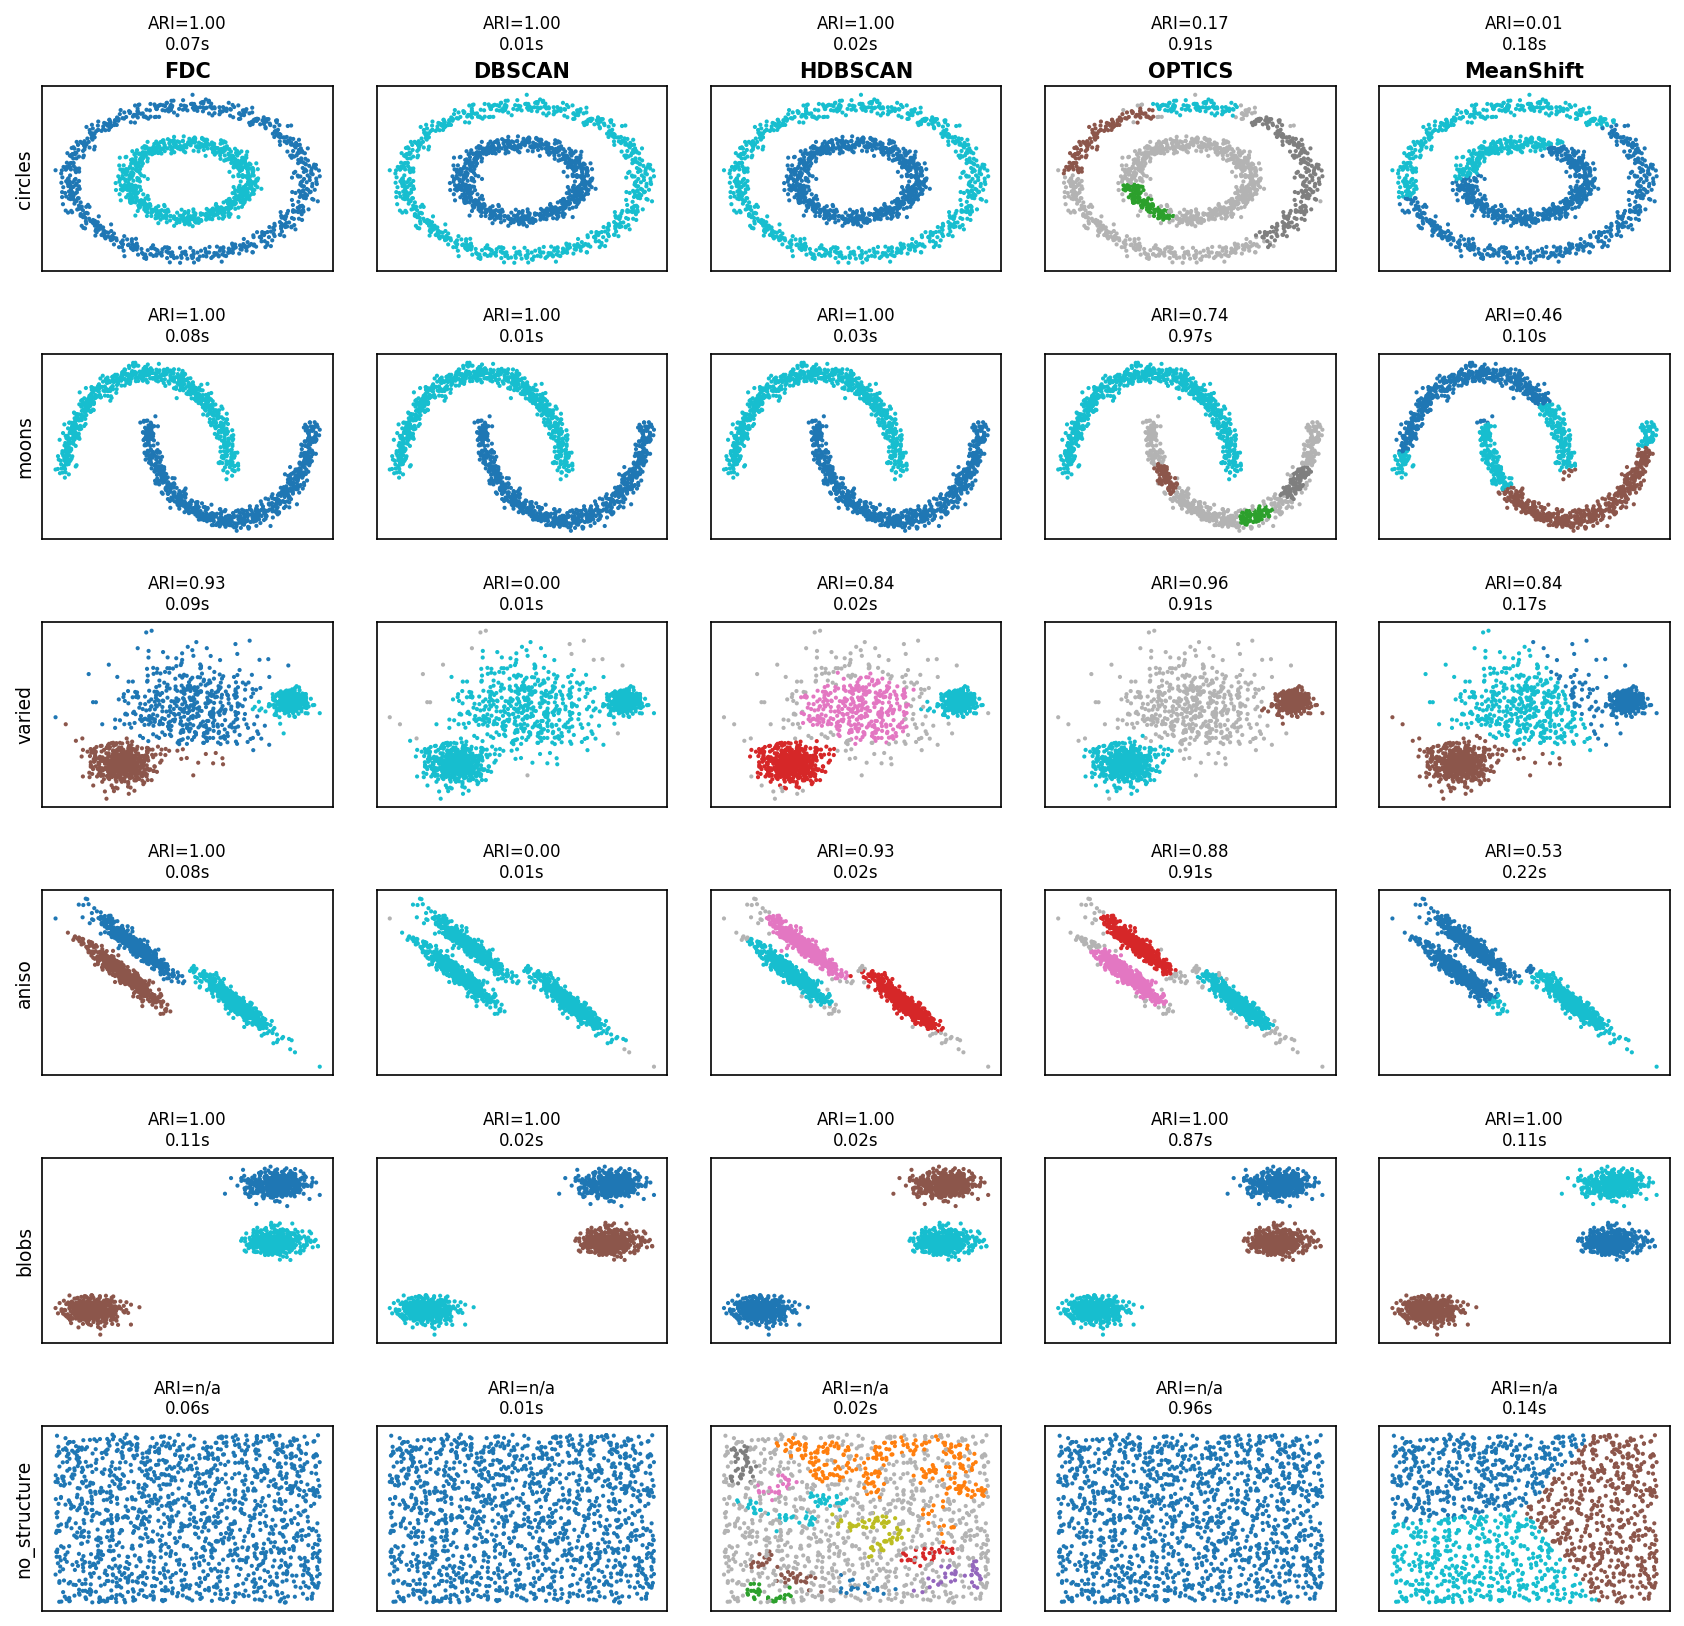
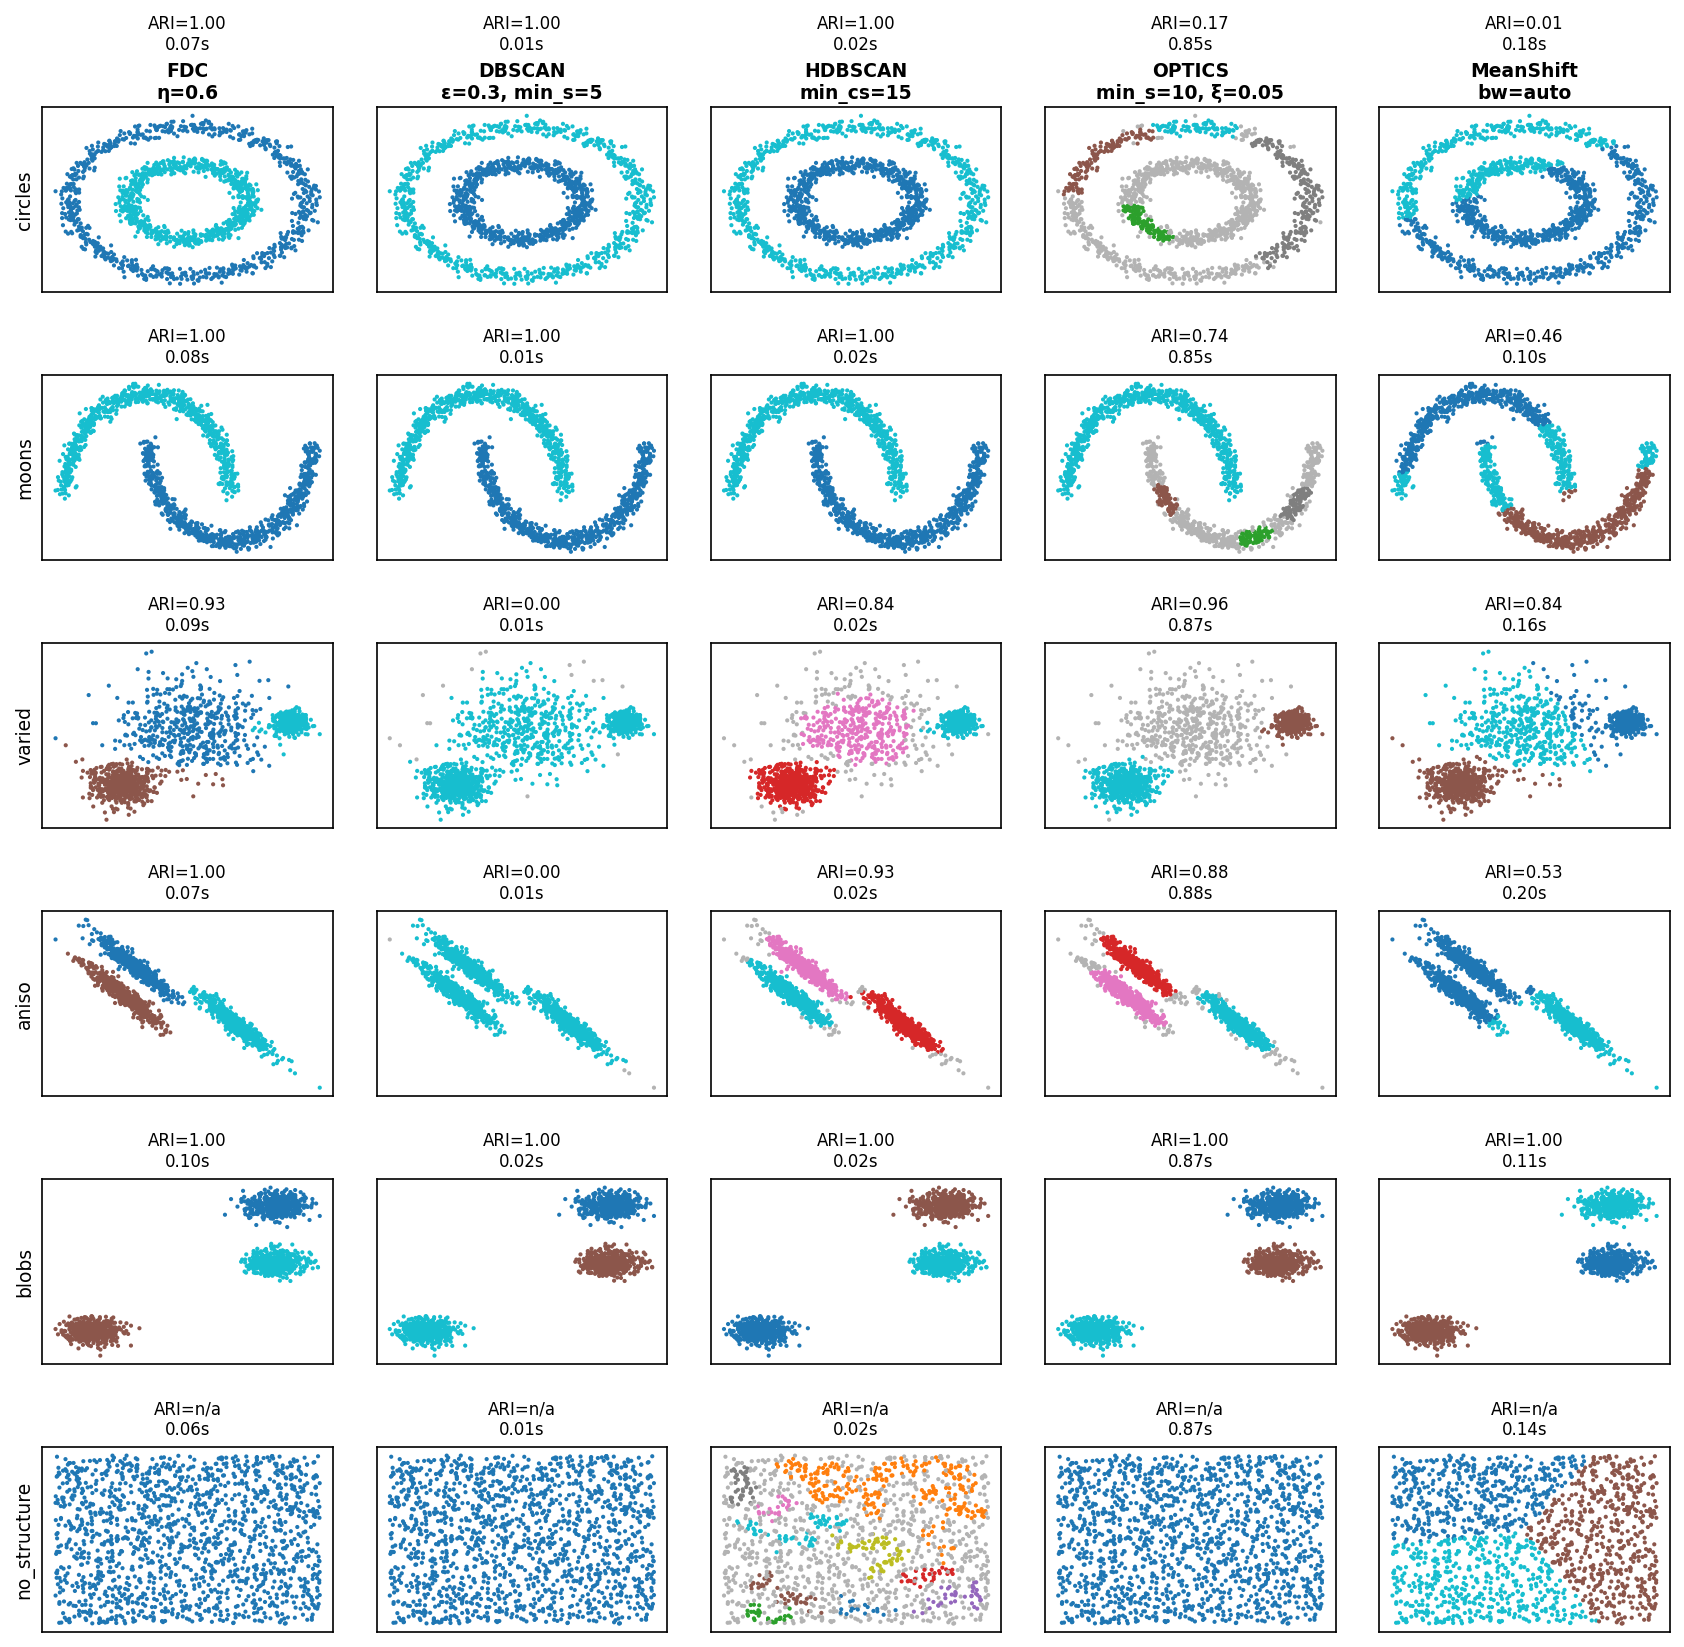
show key hyperparameters in benchmark figure column headers

diff --git a/example/benchmark_sklearn.py b/example/benchmark_sklearn.py
@@ -59,6 +59,13 @@ def make_algorithms(X):
 # Run benchmark
 # ---------------------------------------------------------------------------
 algo_names = ["FDC", "DBSCAN", "HDBSCAN", "OPTICS", "MeanShift"]
+algo_param_labels = {
+    "FDC":       "η=0.6",
+    "DBSCAN":    "ε=0.3, min_s=5",
+    "HDBSCAN":   "min_cs=15",
+    "OPTICS":    "min_s=10, ξ=0.05",
+    "MeanShift": "bw=auto",
+}
 
 # results[dataset][algo] = (ari, runtime)
 # pred_labels[dataset][algo] = predicted labels (reused for plotting)
@@ -160,7 +167,8 @@ for row, (ds_name, (X_raw, y_true)) in enumerate(zip(dataset_names, dataset_list
         ax.set_title(f"{ari_str}\n{dt:.2f}s", fontsize=8)
 
         if row == 0:
-            ax.set_xlabel(algo_name, fontsize=10, fontweight="bold")
+            param_str = algo_param_labels[algo_name]
+            ax.set_xlabel(f"{algo_name}\n{param_str}", fontsize=9, fontweight="bold")
             ax.xaxis.set_label_position("top")
         if col == 0:
             ax.set_ylabel(ds_name, fontsize=9, rotation=90, labelpad=4)
